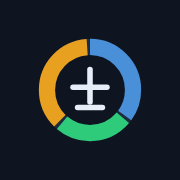
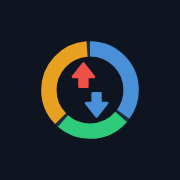
v2.24.1: 앱 아이콘 변경 — 비중 도넛 + 증감 화살표(▲빨강·▼파랑), 아이콘 캐시 갱신
Claude-Session: https://claude.ai/code/session_0141DSSR97LGVUS9FPFSMkJG

Changed region(s): [[0.1944, 0.1944, 0.8056, 0.8056], [0.6667, 0.6389, 0.6944, 0.6667]]

diff --git a/index.html b/index.html
@@ -10,9 +10,9 @@
 <meta name="apple-mobile-web-app-capable" content="yes">
 <meta name="mobile-web-app-capable" content="yes">
 <meta name="apple-mobile-web-app-title" content="리밸런서">
-<link rel="manifest" href="manifest.json">
-<link rel="icon" type="image/png" href="icon-192.png">
-<link rel="apple-touch-icon" href="apple-touch-icon.png">
+<link rel="manifest" href="manifest.json?v=2">
+<link rel="icon" type="image/png" href="icon-192.png?v=2">
+<link rel="apple-touch-icon" href="apple-touch-icon.png?v=2">
 <title>리밸런서</title>
 <link href="https://fonts.googleapis.com/css2?family=DM+Mono:wght@400;500&family=Noto+Sans+KR:wght@300;400;500;700&display=swap" rel="stylesheet">
 <style>
@@ -518,7 +518,7 @@ const ACCENTS=[{n:'블루',h:'#4A90D9'},{n:'그린',h:'#2ECC7A'},{n:'퍼플',h:'
   {n:'오렌지',h:'#E8A020'},{n:'레드',h:'#E85555'},{n:'티파니',h:'#1EC8C8'}];
 const AC=['#4A90D9','#2ECC7A','#E8A020','#C06AF0','#E85555','#00BCD4','#FF6B9D','#8BC34A','#FF9800','#9C27B0'];
 const BROKERS=['한국투자증권','삼성증권','키움증권','미래에셋증권','NH투자증권','나무증권','신한투자증권','KB증권','대신증권','기타'];
-const APP_VERSION='2.24.0';
+const APP_VERSION='2.24.1';
 // ── 정렬은 계좌별로, 표시 열은 기기 공통으로 이 기기에 저장 (rb2_view) ──
 //   {detail:{계좌id:{key,asc}}, dash:{계좌id:{key,asc}}, cols:{...}}
 let _view={detail:{},dash:{}};
